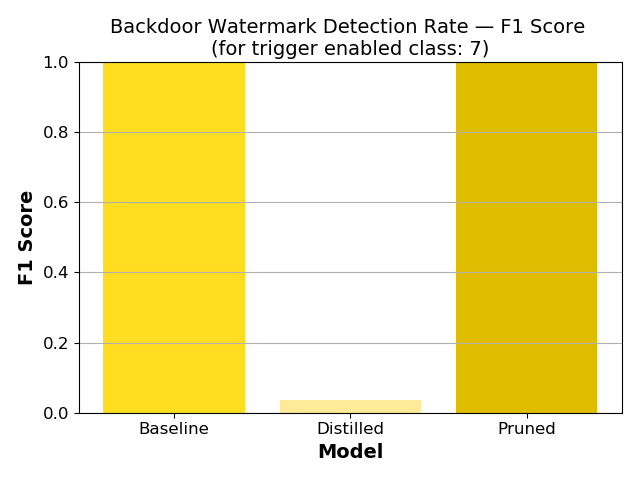
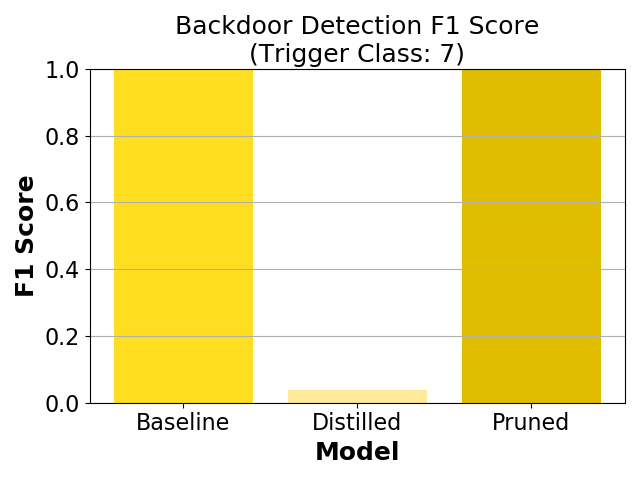
added results

Changed region(s): [[0.0, 0.0312, 1.0, 0.9688], [0.9688, 0.4062, 1.0, 0.4375]]

diff --git a/Final_graphs/sig_enc/graph_sig_enc.py b/Final_graphs/sig_enc/graph_sig_enc.py
@@ -106,7 +106,6 @@ def plot_f1_scores(class_name):
     Plot F1 scores for Baseline, Pruned, and Distilled models with respect to
     Valid, No, and Forged Passports. Optimized for IEEE format.
     """
-
     # Extract F1 scores for the specified class
     f1_valid_pass = [
         df_base_pass[df_base_pass['Class'] == class_name]['F1 Score'].values[0],
@@ -129,12 +128,12 @@ def plot_f1_scores(class_name):
     # Set plot configuration for IEEE format
     plt.figure(dpi=300)
     plt.rcParams.update({
-        'font.size': 12,
-        'axes.labelsize': 14,
-        'axes.titlesize': 14,
-        'xtick.labelsize': 12,
-        'ytick.labelsize': 12,
-        'legend.fontsize': 12
+        # 'font.size': 12,
+        'axes.labelsize': 18,
+        'axes.titlesize': 18,
+        'xtick.labelsize': 16,
+        'ytick.labelsize': 16,
+        'legend.fontsize': 16
     })
 
     # Model types as x-axis categories
@@ -143,19 +142,19 @@ def plot_f1_scores(class_name):
     width = 0.25
 
     # Plot each category as a separate bar group
-    plt.bar(x - width, f1_valid_pass, width, label='Valid Passport', color='#3CAE63')
-    plt.bar(x,         f1_no_pass, width, label='No Passport', color='#FFA896')
-    plt.bar(x + width, f1_forged_pass, width, label='Forged Passport', color='#CD1C18')
+    plt.bar(x - width, f1_valid_pass, width, label='Valid Passport', color='#4E3F39')
+    plt.bar(x,         f1_no_pass, width, label='No Passport', color='#a4a2a8')
+    plt.bar(x + width, f1_forged_pass, width, label='Forged Passport', color='#991f17')
 
     # Plot decorations
     plt.ylabel('F1 Score', fontweight='bold')
     plt.xlabel('Model', fontweight='bold')
-    plt.title('Passport-based Watermarking Performance', fontsize=14, pad=5)
+    plt.title('Passport-based Scheme Performance', pad=5)
     plt.xticks(x, models)
     plt.ylim(0, max(max(f1_valid_pass), max(f1_no_pass), max(f1_forged_pass)) * 1.1)
     plt.grid(axis='y', alpha=0.3)
 
-    plt.legend(frameon=False, loc='upper center', bbox_to_anchor=(0.5, -0.15), ncol=3)
+    plt.legend(frameon=False, loc='upper center', bbox_to_anchor=(0.5, -0.15), ncol=1, borderaxespad=1.5)
 
     plt.tight_layout()
     plt.savefig(f"sig_enc_f1_scores.png", format='png', bbox_inches='tight')
@@ -168,12 +167,12 @@ def plot_watermark_accuracy():
     """
     # Set larger font sizes for IEEE format
     plt.rcParams.update({
-        'font.size': 12,
-        'axes.labelsize': 14,
-        'axes.titlesize': 14,
-        'xtick.labelsize': 12,
-        'ytick.labelsize': 12,
-        'legend.fontsize': 12
+        # 'font.size': 12,
+        'axes.labelsize': 18,
+        'axes.titlesize': 18,
+        'xtick.labelsize': 16,
+        'ytick.labelsize': 16,
+        # 'legend.fontsize': 12
     })
 
     # Define labels and accuracy values
@@ -185,8 +184,8 @@ def plot_watermark_accuracy():
     
     # Add labels and title
     plt.xlabel('Model', fontweight='bold')
-    plt.ylabel('Watermark Detection\nAccuracy (%)', fontweight='bold')
-    plt.title('Passport Based Watermark Detection Accuracy', fontsize=14, pad=5)
+    plt.ylabel('Accuracy (%)', fontweight='bold')
+    plt.title('Passport Scheme -\nWatermark Detection Accuracy', pad=5)
     
     # Display values on bars
     # for i, v in enumerate(accuracy_values):

diff --git a/Final_graphs/wt_pt/graph_wp.py b/Final_graphs/wt_pt/graph_wp.py
@@ -41,12 +41,12 @@ def plot_watermark_accuracy():
     """
     # Set larger font sizes for IEEE format
     plt.rcParams.update({
-        'font.size': 12,
-        'axes.labelsize': 14,
-        'axes.titlesize': 14,
-        'xtick.labelsize': 12,
-        'ytick.labelsize': 12,
-        'legend.fontsize': 12
+        # 'font.size': 12,
+        'axes.labelsize': 18,
+        'axes.titlesize': 18,
+        'xtick.labelsize': 16,
+        'ytick.labelsize': 16,
+        # 'legend.fontsize': 12
     })
 
     # Define labels and accuracy values
@@ -58,8 +58,8 @@ def plot_watermark_accuracy():
     
     # Add labels and title
     plt.xlabel('Model', fontweight='bold')
-    plt.ylabel('Watermark Detection\nAccuracy (%)', fontweight='bold')
-    plt.title('Weight Pt. - Watermark Detection Accuracy', fontsize=14, pad=5)
+    plt.ylabel('Accuracy (%)', fontweight='bold')
+    plt.title('Weight Pt. Scheme -\nWatermark Detection Accuracy', pad=5)
     
     # Display values on bars
     # for i, v in enumerate(accuracy_values):
@@ -80,14 +80,13 @@ def plot_f1_scores_barchart_general(df_base, df_distilled, df_pruned, class_name
     """
     # Set larger font sizes for IEEE format
     plt.rcParams.update({
-        'font.size': 12,
-        'axes.labelsize': 14,
-        'axes.titlesize': 14,
-        'xtick.labelsize': 12,
-        'ytick.labelsize': 12,
-        'legend.fontsize': 12
+        # 'font.size': 12,
+        'axes.labelsize': 18,
+        'axes.titlesize': 18,
+        'xtick.labelsize': 16,
+        'ytick.labelsize': 16,
+        # 'legend.fontsize': 12
     })
-
     # Extract F1 scores for the specified class
     f1_base = df_base[df_base['Class'] == class_name]['F1 Score'].values[0]
     f1_distilled = df_distilled[df_distilled['Class'] == class_name]['F1 Score'].values[0]
@@ -107,7 +106,7 @@ def plot_f1_scores_barchart_general(df_base, df_distilled, df_pruned, class_name
     # Graph details
     plt.xlabel('Model', fontweight='bold')
     plt.ylabel('F1 Score', fontweight='bold')
-    plt.title('Weight Pt. Watermarking Performance — F1 Score\n (Mean over CIFAR-10 Classes)', fontsize=14, pad=5)
+    plt.title('Weight Pt. Scheme F1 Score\n(CIFAR-10 Mean)', pad=5)
     plt.ylim(0, 1)  # Assuming F1 scores are between 0 and 1
     plt.grid(axis='y')
     plt.tight_layout()

diff --git a/Final_graphs/bd_wm/graph_bd.py b/Final_graphs/bd_wm/graph_bd.py
@@ -45,12 +45,12 @@ def plot_f1_scores_barchart_general(df_base, df_distilled, df_pruned, class_name
     """
     # Set larger font sizes for IEEE format
     plt.rcParams.update({
-        'font.size': 12,
-        'axes.labelsize': 14,
-        'axes.titlesize': 14,
-        'xtick.labelsize': 12,
-        'ytick.labelsize': 12,
-        'legend.fontsize': 12
+        # 'font.size': 12,
+        'axes.labelsize': 18,
+        'axes.titlesize': 18,
+        'xtick.labelsize': 16,
+        'ytick.labelsize': 16,
+        # 'legend.fontsize': 12
     })
 
     # Extract F1 scores for the specified class
@@ -66,7 +66,7 @@ def plot_f1_scores_barchart_general(df_base, df_distilled, df_pruned, class_name
     # Graph details
     plt.xlabel('Model', fontweight='bold')
     plt.ylabel('F1 Score', fontweight='bold')
-    plt.title(f'Backdoor Watermarking Performance — F1 Score\n (Mean over CIFAR-10 Classes)', fontsize=14, pad=5)
+    plt.title(f'Backdoor Scheme F1 Score\n(CIFAR-10 Mean)', pad=5)
     plt.ylim(0, 1)  # Assuming F1 scores are between 0 and 1
     plt.grid(axis='y')
     plt.tight_layout()
@@ -79,12 +79,12 @@ def plot_f1_scores_barchart_trigger(df_base, df_distilled, df_pruned, class_name
     """
     # Set larger font sizes for IEEE format
     plt.rcParams.update({
-        'font.size': 12,
-        'axes.labelsize': 14,
-        'axes.titlesize': 14,
-        'xtick.labelsize': 12,
-        'ytick.labelsize': 12,
-        'legend.fontsize': 12
+        # 'font.size': 12,
+        'axes.labelsize': 18,
+        'axes.titlesize': 18,
+        'xtick.labelsize': 16,
+        'ytick.labelsize': 16,
+        # 'legend.fontsize': 12
     })
 
     # Extract F1 scores for the specified class
@@ -100,7 +100,7 @@ def plot_f1_scores_barchart_trigger(df_base, df_distilled, df_pruned, class_name
     # Graph details
     plt.xlabel('Model', fontweight='bold')
     plt.ylabel('F1 Score', fontweight='bold')
-    plt.title(f'Backdoor Watermark Detection Rate — F1 Score \n(for trigger enabled class: {class_name})', fontsize=14, pad=5)
+    plt.title(f'Backdoor Detection F1 Score\n(Trigger Class: {class_name})', pad=5)
     plt.ylim(0, 1)  # Assuming F1 scores are between 0 and 1
     plt.grid(axis='y')
     plt.tight_layout()

diff --git a/Final_graphs/base_comparison/graph_base.py b/Final_graphs/base_comparison/graph_base.py
@@ -83,12 +83,12 @@ def plot_f1_scores_barchart_general(df_base, df_wt_pt_wm, df_bd, df_sig_enc, cla
     """
     # Set larger font sizes for IEEE format
     plt.rcParams.update({
-        'font.size': 12,
-        'axes.labelsize': 12,
-        'axes.titlesize': 12,
-        'xtick.labelsize': 12,
-        'ytick.labelsize': 12,
-        'legend.fontsize': 12
+        # 'font.size': 18,
+        'axes.labelsize': 18,
+        'axes.titlesize': 18,
+        'xtick.labelsize': 16,
+        'ytick.labelsize': 16,
+        # 'legend.fontsize': 12
     })
 
     # Extract F1 scores for the specified class
@@ -98,15 +98,15 @@ def plot_f1_scores_barchart_general(df_base, df_wt_pt_wm, df_bd, df_sig_enc, cla
     f1_sig_enc = df_sig_enc[df_sig_enc['Class'] == class_name]['F1 Score'].values[0]
 
     # Bar plot for F1 scores
-    labels = ['Baseline\nModel', 'Weight\nPerturbed', 'Backdoor\nEmbedded', 'Passport\nEmbedded']
-    f1_scores = [f1_base, f1_wt_pt_wm, f1_bd, f1_sig_enc]
-    # plt.bar(labels, f1_scores, color=['#CD1C18', '#FFA896', '#9B1313', '#38000A'])
+    labels = ['Baseline\nModel', 'Backdoor\nEmbedded', 'Weight\nPerturbed', 'Passport\nEmbedded']
+    f1_scores = [f1_base, f1_bd, f1_wt_pt_wm, f1_sig_enc]
+    # plt.bar(labels, f1_scores, color=['#1984c5', '#e2e2e2', '#a7d5ed', '#c23728'])
     plt.bar(labels, f1_scores, color=['#1A4A96', '#2D68C4', '#143A78', '#69A3E1'])
 
     # Graph details
     plt.xlabel('Model', fontweight='bold')
     plt.ylabel('F1 Score', fontweight='bold')
-    plt.title(f'F1 Score Comparison: Baseline vs. Watermarked Models', fontsize=14, pad=10)
+    plt.title(f'F1 Score Comparison:\nBaseline vs. Watermarked Models', pad=10)
     plt.ylim(0, 1)  # Assuming F1 scores are between 0 and 1
     plt.grid(axis='y')
     plt.tight_layout()
